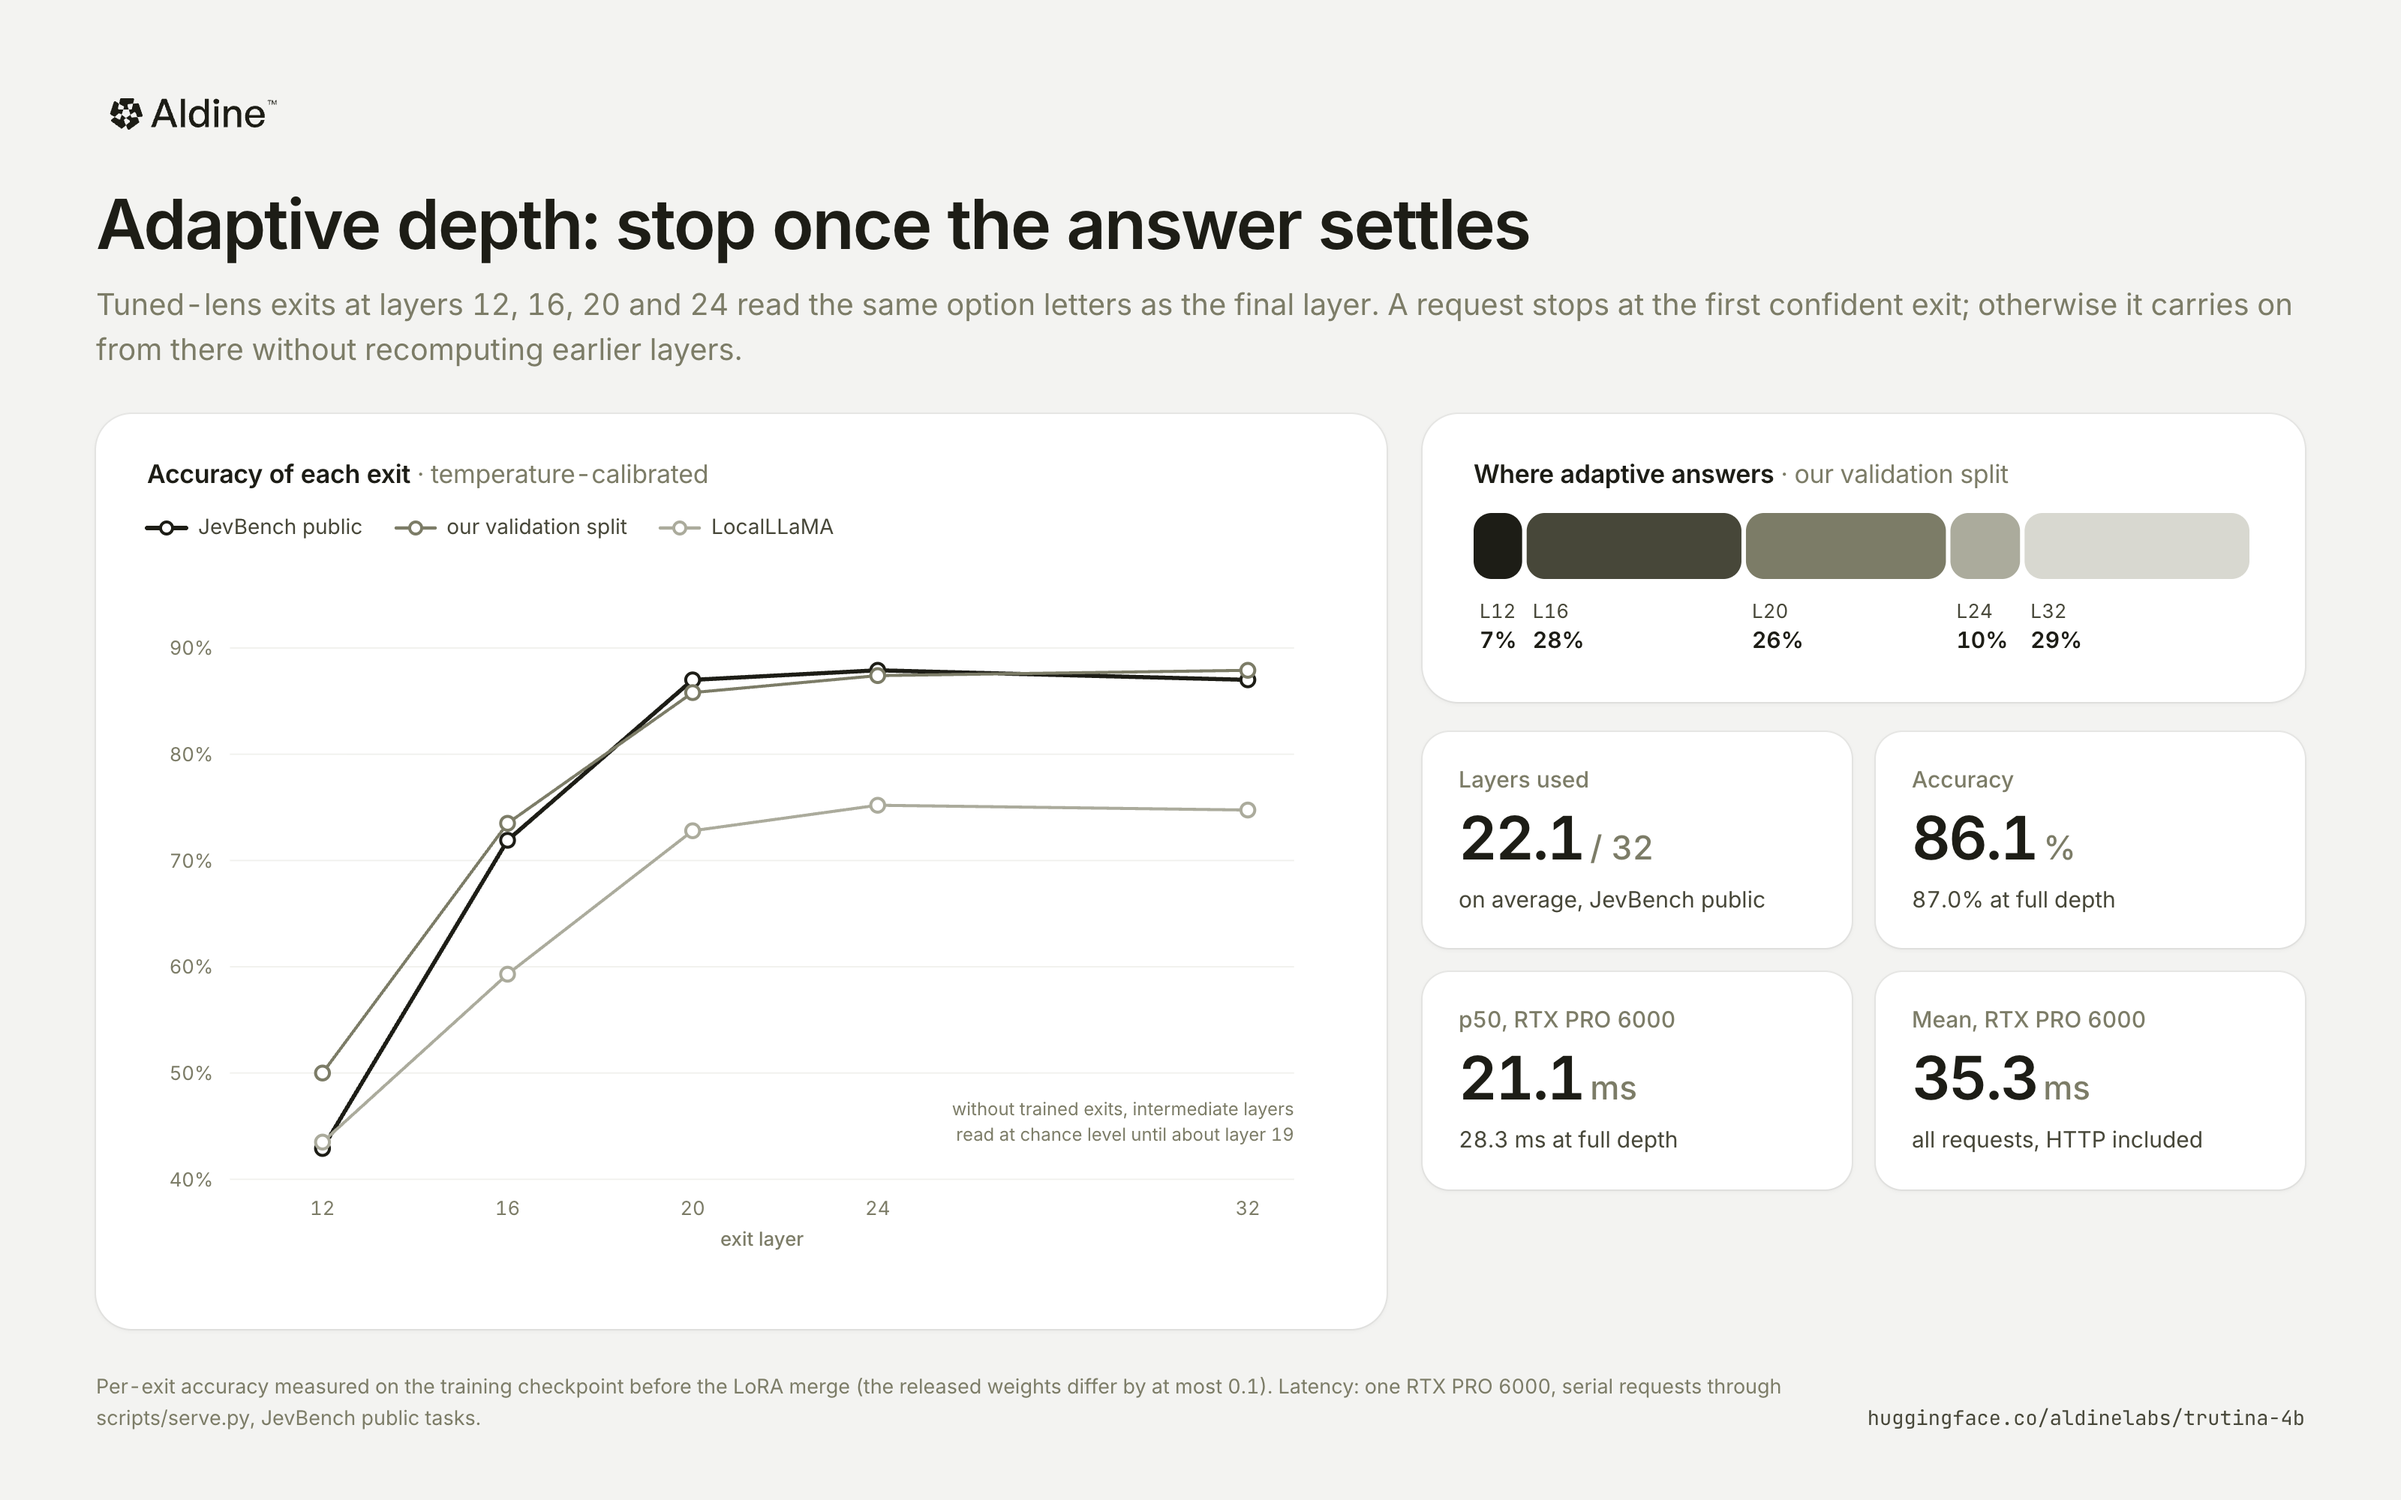
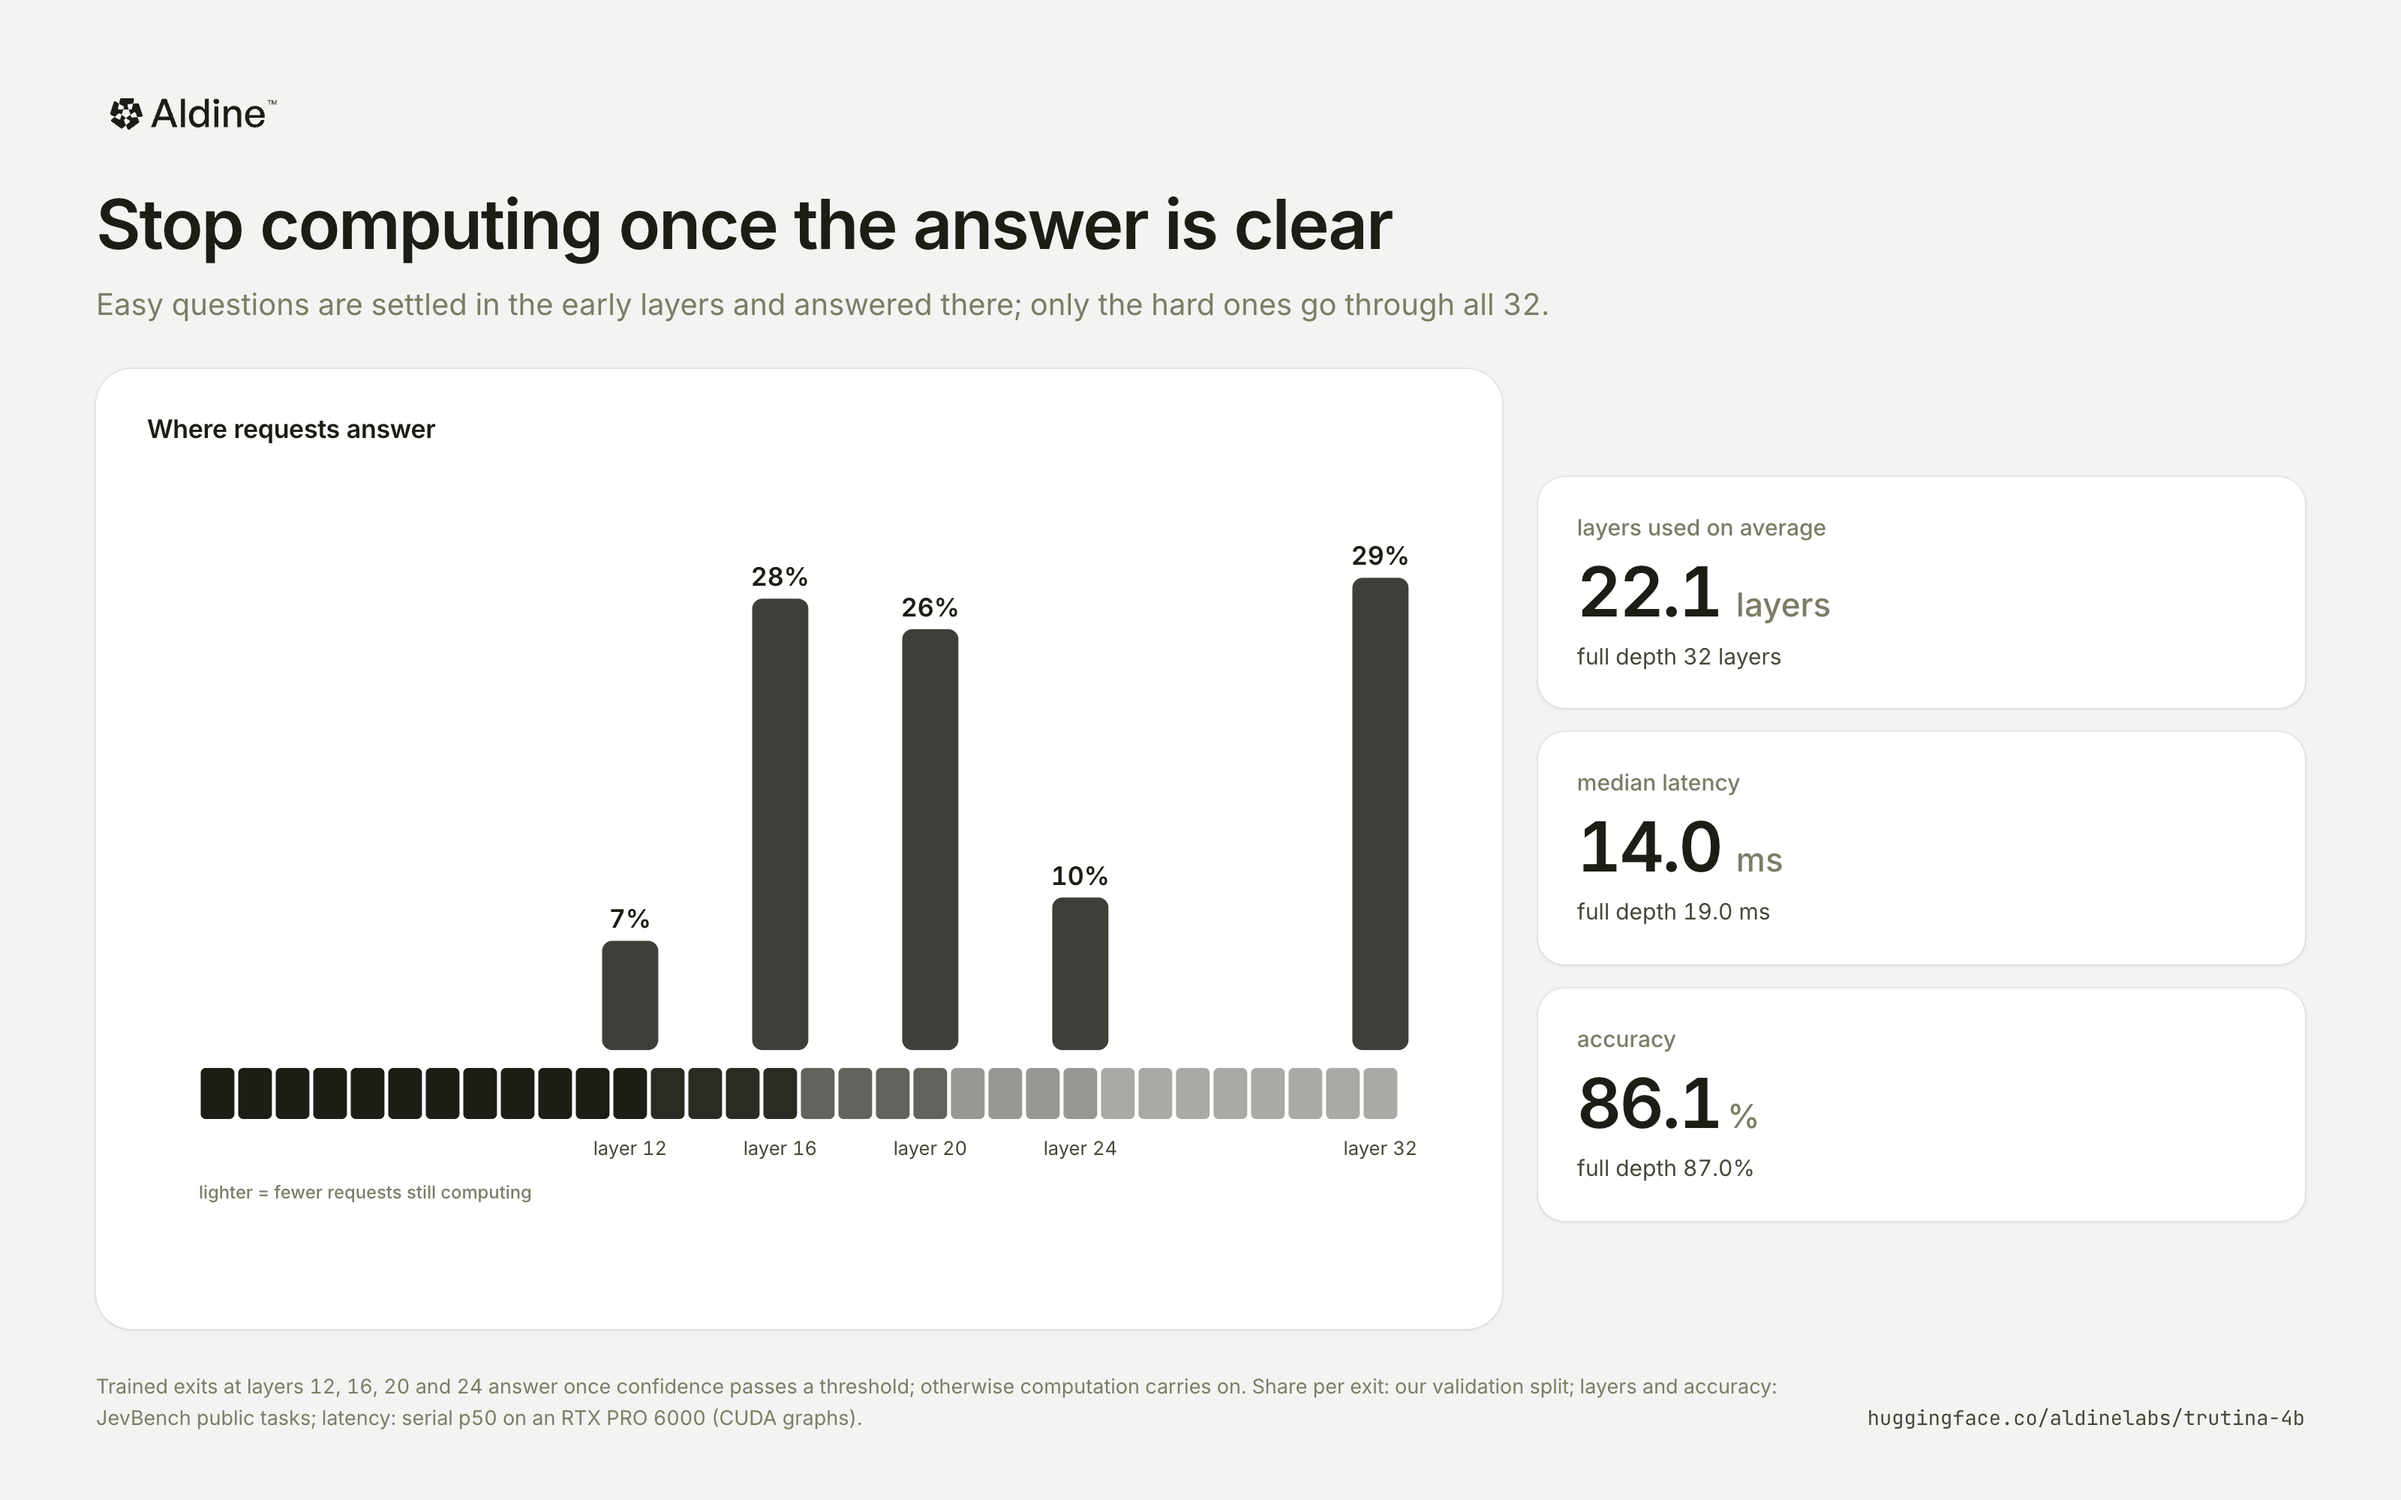
docs: adaptive depth chart reads as one picture (where requests answer) and three before/after numbers, with CUDA-graph latency

diff --git a/assets/charts/charts.html b/assets/charts/charts.html
@@ -386,44 +386,38 @@ function typed() {
 
 /* ---------- Adaptive depth ---------- */
 function adaptive() {
-  const E = T.exits, W = 860, H = 470, m = { l: 60, r: 30, t: 20, b: 50 };
-  const x = linScale(10, 33, m.l, W - m.r), y = linScale(40, 92, H - m.b, m.t);
-  let g = "";
-  for (const t of [40, 50, 60, 70, 80, 90]) g += `<line x1="${m.l}" x2="${W - m.r}" y1="${y(t)}" y2="${y(t)}" stroke="var(--grid)"/><text class="axis" x="${m.l - 12}" y="${y(t) + 5}" text-anchor="end">${t}%</text>`;
-  for (const l of E.layers) g += `<text class="axis" x="${x(l)}" y="${H - m.b + 26}" text-anchor="middle">${l}</text>`;
-  g += `<text class="axis-title" x="${(m.l + W - m.r) / 2}" y="${H - 2}" text-anchor="middle">${zh ? "出口层" : "exit layer"}</text>`;
-  const series = [["jevbench", zh ? "JevBench 公开集" : "JevBench public", "var(--fg)", 3], ["val", zh ? "验证集" : "our validation split", "var(--muted)", 2.2], ["localllama", "LocalLLaMA", "var(--faint)", 2.2]];
-  for (const [k2, , c, w] of series) {
-    const pts = E.layers.map((l, i) => [x(l), y(E[k2][i])]);
-    g += `<path d="M${pts.map(p => p.join(",")).join(" L")}" fill="none" stroke="${c}" stroke-width="${w}" stroke-linejoin="round" stroke-linecap="round"/>`;
-    for (const p of pts) g += `<circle cx="${p[0]}" cy="${p[1]}" r="5" fill="var(--card)" stroke="${c}" stroke-width="2.2"/>`;
+  // one picture: 32 layers, the share of requests that leave at each exit, and the track fading as they leave
+  const E = T.exits, sh = E.share_val, exits = [12, 16, 20, 24, 32];
+  const ad = D.compete.runs.find(r => r.us && r.mode === "adaptive"), full = D.compete.runs.find(r => r.us && r.mode === "full");
+  const W = 1000, H = 640, l = 30, r = 30, cw = (W - l - r) / 32, ty = 470, th = 40, top = 40, maxH = ty - top - 60;
+  const cx = L => l + (L - 0.5) * cw, mx = Math.max(...exits.map(k => sh[k]));
+  let g = "", gone = 0;
+  for (let L = 1; L <= 32; L++) {
+    const left = 1 - gone / 100;
+    g += `<rect x="${l + (L - 1) * cw + 1.5}" y="${ty}" width="${cw - 3}" height="${th}" rx="4" fill="var(--fg)" opacity="${(0.12 + 0.88 * left).toFixed(2)}"/>`;
+    if (exits.includes(L)) {
+      const h = sh[L] / mx * maxH, x0 = cx(L);
+      g += `<rect x="${x0 - 22}" y="${ty - 14 - h}" width="44" height="${h}" rx="8" fill="var(--fg)" opacity=".85"/>`;
+      g += `<text class="val" x="${x0}" y="${ty - 24 - h}" text-anchor="middle" style="font-size:20px">${Math.round(sh[L])}%</text>`;
+      g += `<text class="lbl" x="${x0}" y="${ty + th + 28}" text-anchor="middle" style="font-size:15px">${zh ? `第 ${L} 层` : `layer ${L}`}</text>`;
+      gone += sh[L];
+    }
   }
-  g += `<text class="lbl-sub" x="${W - m.r}" y="${y(46)}" text-anchor="end">${zh ? "若不训练出口，中间层读出" : "without trained exits, intermediate layers"}</text>`;
-  g += `<text class="lbl-sub" x="${W - m.r}" y="${y(46) + 18}" text-anchor="end">${zh ? "在约第 19 层之前接近随机水平" : "read at chance level until about layer 19"}</text>`;
-  const lineLegend = `<div class="legend">${series.map(([, name, c, w]) => `<span><i><svg width="26" height="12"><line x1="0" x2="26" y1="6" y2="6" stroke="${c}" stroke-width="${w}" stroke-linecap="round"/><circle cx="13" cy="6" r="4" fill="#fff" stroke="${c}" stroke-width="2"/></svg></i>${name}</span>`).join("")}</div>`;
-  const sh = E.share_val, keys = ["12", "16", "20", "24", "32"], SW = 520, tones = ["var(--fg)", "var(--ink-2)", "var(--muted)", "var(--faint)", "var(--pale)"];
-  let acc = 0, s = "";
-  keys.forEach((k2, i) => {
-    const w = sh[k2] / 100 * SW;
-    s += `<rect x="${acc}" y="0" width="${Math.max(w - 3, 1)}" height="44" rx="${Math.min(12, (w - 3) / 2)}" fill="${tones[i]}"/>`;
-    s += `<text x="${acc + 4}" y="70" class="lbl" style="font-size:13px">L${k2}</text><text x="${acc + 4}" y="90" class="val" style="font-size:15px">${Math.round(sh[k2])}%</text>`;
-    acc += w;
-  });
-  const kp = (k2, v, f) => `<div class="kpi inner" style="padding:22px 24px"><span class="k">${k2}</span><span class="v" style="font-size:40px">${v}</span><span class="f">${f}</span></div>`;
-  const K = zh ? [["平均层数", `22.1<small>/ 32</small>`, "JevBench 公开集"], ["准确率", `86.1<small>%</small>`, "完整深度为 87.0%"], ["p50，RTX PRO 6000", `21.1<small>ms</small>`, "完整深度为 28.3 ms"], ["平均延迟，RTX PRO 6000", `35.3<small>ms</small>`, "全部请求，含 HTTP 开销"]]
-    : [["Layers used", `22.1<small>/ 32</small>`, "on average, JevBench public"], ["Accuracy", `86.1<small>%</small>`, "87.0% at full depth"], ["p50, RTX PRO 6000", `21.1<small>ms</small>`, "28.3 ms at full depth"], ["Mean, RTX PRO 6000", `35.3<small>ms</small>`, "all requests, HTTP included"]];
-  const body = `<div class="row"><div class="card" style="flex:1.6"><h2>${zh ? "各出口单独作答的准确率 <span>· 经温度校准</span>" : "Accuracy of each exit <span>· temperature-calibrated</span>"}</h2>${lineLegend}${svgTag(W, H)}${g}</svg></div>
-      <div style="flex:1; display:flex; flex-direction:column; gap:20px">
-        <div class="card" style="flex:none"><h2>${zh ? "自适应深度的终止层分布 <span>· 验证集</span>" : "Where adaptive answers <span>· our validation split</span>"}</h2><svg width="${SW}" height="96">${s}</svg></div>
-        <div style="display:grid; grid-template-columns:1fr 1fr; gap:16px">${K.map(a => kp(...a)).join("")}</div></div></div>`;
+  g += `<text class="axis-title" x="${l}" y="${ty + th + 62}">${zh ? "颜色越浅，仍在计算的请求越少" : "lighter = fewer requests still computing"}</text>`;
+  const kp = (k, a, b, u) => `<div class="kpi inner" style="padding:24px 26px"><span class="k">${k}</span><span class="v" style="font-size:46px">${a}<small>${u}</small></span><span class="f">${zh ? "完整深度" : "full depth"} ${b}${u === "%" ? u : u}</span></div>`;
+  const K = [kp(zh ? "平均用到的层数" : "layers used on average", fmt1(E.mean_layers.jevbench), "32", zh ? " 层" : " layers"),
+             kp(zh ? "中位延迟" : "median latency", fmt1(ad.p50), fmt1(full.p50), " ms"),
+             kp(zh ? "准确率" : "accuracy", fmt1(E.adaptive.jevbench), fmt1(E.jevbench.at(-1)), "%")];
+  const body = `<div class="row"><div class="card" style="flex:1.7"><h2>${zh ? "请求在哪一层给出答案" : "Where requests answer"}</h2>${svgTag(W, H)}${g}</svg></div>
+      <div style="flex:1; display:flex; flex-direction:column; gap:16px; justify-content:center">${K.join("")}</div></div>`;
   return frame(zh ? {
     title: "答案一确定就停止计算",
-    sub: "第 12、16、20、24 层各设一个 tuned-lens 出口，与最后一层读取相同的选项字母。请求在首个置信度达到阈值的出口处终止；否则沿用该层隐状态继续计算，无需重复计算前序各层。",
-    body, src: "各出口准确率在合并 LoRA 之前的训练检查点上测得（与发布权重相差不超过 0.1）。延迟测量条件：单张 RTX PRO 6000，经 scripts/serve.py 串行发送请求，JevBench 公开题。",
+    sub: "简单的题在浅层就有把握，提前给出答案；只有难题才走完全部 32 层。",
+    body, src: "第 12、16、20、24 层各有一个训练过的出口，置信度达到阈值即在该层作答，否则继续向后计算。各层作答比例取自验证集；层数与准确率为 JevBench 公开集；延迟为 RTX PRO 6000 上串行请求的 p50（CUDA graph）。",
   } : {
-    title: "Adaptive depth: stop once the answer settles",
-    sub: "Tuned-lens exits at layers 12, 16, 20 and 24 read the same option letters as the final layer. A request stops at the first confident exit; otherwise it carries on from there without recomputing earlier layers.",
-    body, src: "Per-exit accuracy measured on the training checkpoint before the LoRA merge (the released weights differ by at most 0.1). Latency: one RTX PRO 6000, serial requests through scripts/serve.py, JevBench public tasks.",
+    title: "Stop computing once the answer is clear",
+    sub: "Easy questions are settled in the early layers and answered there; only the hard ones go through all 32.",
+    body, src: "Trained exits at layers 12, 16, 20 and 24 answer once confidence passes a threshold; otherwise computation carries on. Share per exit: our validation split; layers and accuracy: JevBench public tasks; latency: serial p50 on an RTX PRO 6000 (CUDA graphs).",
   });
 }
 
